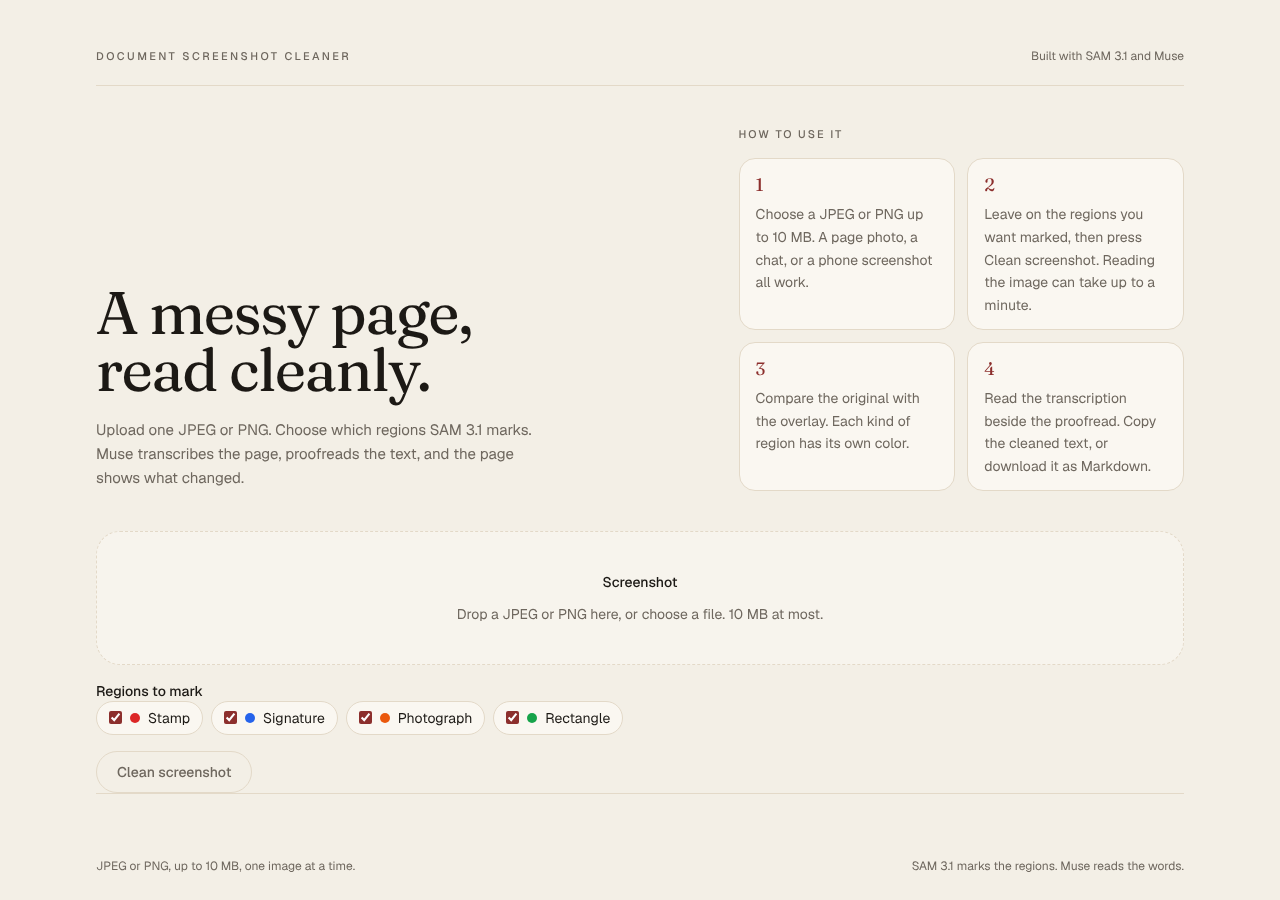
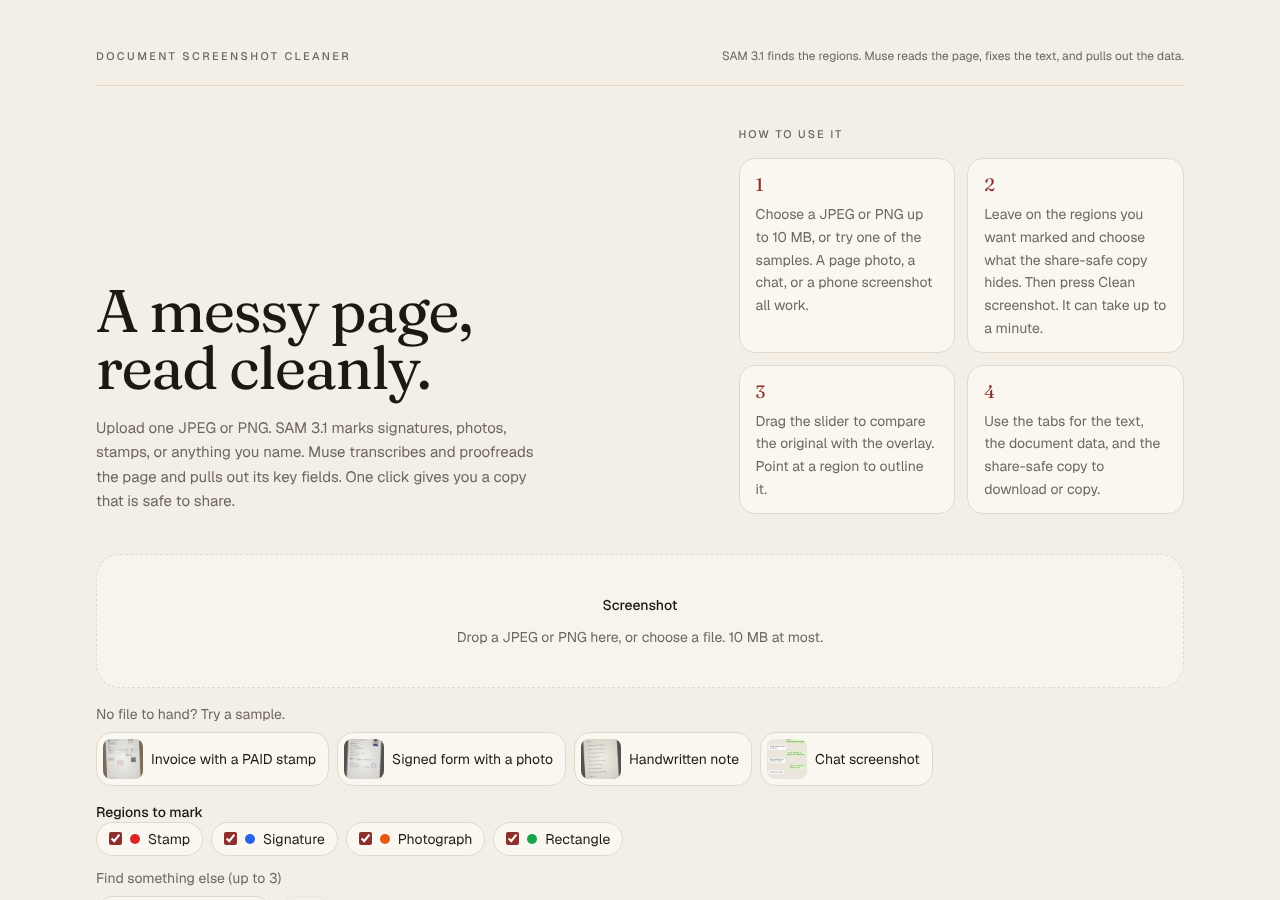
docs: bring the READMEs up to date and add a status tracker
Rewrite the root README for what the app does now: the share-safe
copy, custom regions, document data, region notes, live progress, and
ask the document, with an updated diagram, a "How Meta models are used"
table, the model calls per request, a privacy section, the full
configuration, and the browser tests. Correct the backend README
(the /api/ask endpoint, the stream header, the pipeline steps,
CORS_ORIGINS, the test files) and the frontend README (Cancel now stops
the request on the server, the describe step, the unit and browser
tests). Retake the screenshot of the current page.

Add a status tracker to the feature expansion plan (§13) and link it
from the main plan's phase tracker.

diff --git a/frontend/src/app/cleaner.tsx b/frontend/src/app/cleaner.tsx
@@ -236,7 +236,7 @@ export function Cleaner({ apiBase }: { apiBase: string }) {
   }
 
   function cancelClean() {
-    // The page stops waiting. A model call already under way still finishes on the server.
+    // Aborting closes the progress stream, and the API then cancels the request.
     inFlight.current?.abort();
   }
 

diff --git a/README.md b/README.md
@@ -5,78 +5,91 @@
 
 ![The upload page](docs/screenshot.png)
 
-Upload one screenshot or photo of a page. The app marks the regions you leave on — stamps, signatures, photographs, and rectangles — transcribes the visible text, and proofreads it. You get the original picture, a colored overlay, and the cleaned text beside the transcription, with the edits marked. You can copy that text or download it as Markdown. If a read fails, you can send the same image again.
+People photograph IDs, forms, and bank slips and send them over chat every day, signatures, faces, and account numbers included. Drop the photo in. SAM 3.1 finds the signature, the photo, the stamp, or anything you name. Muse reads the page, fixes it, pulls out the fields, and spots the phone numbers and ID numbers. One click gives you a copy that is safe to share.
 
-This is a small tool for a messy real-world image: a photographed form, a handwritten note, a chat, or a phone screen. It was built for the Meta Global AI Developer Hackathon, Indie track, on the theme Build for Your World.
+It was built for the Meta Global AI Developer Hackathon, Indie track, on the theme Build for Your World.
 
 ## What you can do
 
-1. Choose or drop a JPEG or PNG up to 10 MB.
-2. Leave on the regions you want marked. All four start on.
-3. Wait while the image is read. A request can take up to a minute. Press Cancel to stop waiting. The page gives up on its own after 150 seconds. If it fails and the file is still selected, press Try again. That sends the image once more. The API does not retry a call on its own.
-4. Compare the original with the overlay. Each kind of region has its own color. Below the pictures, each region you asked for shows how many were found and the best confidence score. Download PNG saves the overlay as `<name>.overlay.png`. Changing the region boxes after a result does not send a new request until you clean again.
-5. Read the transcription beside the proofread. Struck-through words were in the transcription. Underlined words are the proofread wording. When nothing changed, the page says so. Copy the cleaned text, or download `<name>.cleaned.md`. Copy and download use the proofread text. They stay off when that text is empty.
+1. Choose or drop a JPEG or PNG up to 10 MB, or click one of the four sample pages.
+2. Choose what SAM marks: stamp, signature, photograph, rectangle, and up to 3 things you name, such as "logo" or "QR code".
+3. Choose what the share-safe copy hides (signature and photograph by default), black box or blur, and whether to mask personal details in the text. Optionally pull out the document's key fields (on by default) and describe each region in a few words (off by default).
+4. Press Clean screenshot. A step list shows each stage as it finishes. A request can take up to a minute. Cancel stops it on the server too. The page gives up after 180 seconds and offers Try again.
+5. Read the result in four tabs:
+   - **Overview**: the original and the SAM overlay under one slider. Point at a region to outline it. Download the overlay PNG.
+   - **Text**: the transcription beside the proofread, with edits marked. Copy it or download Markdown. Ask the document a question and get an answer with the exact words it came from.
+   - **Data**: the document type, a summary, and key fields, each marked when its value is not in the text. Download JSON or CSV.
+   - **Share-safe**: the hidden copy under a before/after slider, with no location or camera data, and the text with personal details replaced by `[PHONE]`, `[NAME]`, and so on.
 
-An image with no matching regions is still a success. The overlay is the picture with no masks, and the text is whatever was read from the page. If the page has no text, the screen says so and the copy and download buttons stay off.
+There is no account system, no saved history, and no multi-page document support. Nothing you upload is stored.
 
 ## What is in this repo
 
 | Path | What it is |
 |---|---|
-| `backend/` | FastAPI service. Accepts the image, calls the models, and draws the overlay. |
-| `frontend/` | Next.js page. Uploads the image and shows the result. |
-| `demo/final-demo.webm` | 67 second walkthrough of the polished page, recorded before region choices, the proofread comparison, Try again, Cancel, region counts, and overlay download. |
-| `demo/happy-path.webm` | 77 second earlier recording of the first working page. |
-| `Document_Screenshot_Cleaner_SAM_Hackathon_Plan.md` | The execution plan and phase tracker. |
+| `backend/` | FastAPI service. Checks the image, calls the models, draws the overlay and the share-safe copy, and streams progress. |
+| `backend/tests/fake_server.py` | The real API with a fixed model gateway, for browser tests. Never calls Meta. |
+| `frontend/` | Next.js page. Uploads the image and shows the result in tabs. |
+| `frontend/public/samples/` | Four sample pages made for this app. Names are invented; phone numbers are from reserved drama ranges. |
+| `frontend/e2e/` | Playwright tests of the built page against the fake API. |
+| `Document_Screenshot_Cleaner_SAM_Hackathon_Plan.md` | The original plan, phase tracker, and the F0 spike results (§5.1). |
+| `Feature_Expansion_Plan.md` | The feature expansion plan and its status tracker (§13). |
+| `demo/final-demo.webm`, `demo/happy-path.webm` | Earlier recordings, made before the feature expansion. |
 | `docs/screenshot.png` | The upload page, shown at the top of this file. |
-| `.github/workflows/ci.yml` | Runs the backend and frontend checks on every push and pull request. |
-
-There is no account system, no saved history, and no multi-page document support.
+| `.github/workflows/ci.yml` | Backend, frontend, and browser checks on every push and pull request. |
 
 ## How one upload is handled
 
 ```mermaid
 flowchart LR
-    B[Browser] -- "POST /api/process" --> A[FastAPI]
-    A --> P[EXIF fix and 2048 px cap]
-    P --> S1[SAM 3.1: stamp]
-    P --> S2[SAM 3.1: signature]
-    P --> S3[SAM 3.1: photograph]
-    P --> S4[SAM 3.1: rectangle]
-    P --> T[Muse: transcribe]
-    T --> R[Muse: proofread]
-    S1 & S2 & S3 & S4 --> O[Overlay PNG]
-    O & R --> J[JSON response]
-    J --> B
+    B[Browser] -- "POST /api/process" --> C[Check upload, EXIF fix, 2048 px cap]
+    C --> S[SAM 3.1: one call per region name]
+    C --> G[Muse: signature boxes]
+    C --> T[Muse: transcribe]
+    S & G --> D[Muse: describe each region]
+    T --> P[Muse: proofread]
+    T --> E[Muse: key fields]
+    T --> N[Muse: personal details]
+    S & G & D --> O[Overlay and share-safe image]
+    P & E & N --> M[Mask the shareable text]
+    O & M --> R[JSON result, or a stream of progress lines]
+    R --> B
 ```
 
-The browser sends the file to `POST /api/process`. The API does not trust the browser to draw masks.
+1. The upload must be a JPEG or PNG up to 10 MB, or the API answers 400 or 413 before calling any model. EXIF orientation is applied and the long edge is capped at 2048 px; every model and both images use that working image, so boxes line up with the picture.
+2. SAM 3.1 is called once per region name, in parallel. When signature is marked, Muse vision also boxes signatures, because SAM found none in the F0 spike. Muse transcribes the whole page at the same time.
+3. With the transcription in hand, Muse proofreads it and, when asked, pulls out key fields and finds personal details, all in parallel. Region descriptions start as soon as SAM is done.
+4. The API draws the overlay, builds the share-safe image (hidden areas follow each SAM mask; the file has no metadata), and masks the shareable text.
+5. Every prompt that carries text from the image fences it and tells the model never to follow instructions inside it. Model output that has to be in the text (sensitive spans, quotes, field values) is checked against the text.
+6. Each model call has a 60 second timeout and is not retried. A failed core step (segmentation, transcription, proofread) is HTTP 502. A failed optional step (signature boxes, fields, personal details, descriptions, text boxes) leaves its part empty and adds a line to `warnings`; the request still succeeds.
 
-1. It accepts only JPEG or PNG, up to 10 MB. Anything else is HTTP 400. A larger file is HTTP 413.
-2. It applies EXIF orientation, then shrinks the long edge to 2048 px when needed. Segmentation, transcription, and the overlay all use that same working image, so the boxes line up with the picture on the page.
-3. It asks SAM 3.1, in parallel, for the regions in the `concepts` form field. The known names are `stamp`, `signature`, `photograph`, and `rectangle`, always stored in that order. Omit the field and the server uses `SAM_CONCEPTS`, which defaults to all four. Send the field empty and segmentation is skipped, while transcription still runs. An unknown name is HTTP 400. Prompts for text, a document, or a handwritten note are not sent. Those returned no regions in the early spike. Text comes from a full-image transcription, not from the regions.
-4. It decodes each SAM stream with `meta-sam-parser` and paints the mask at the box. A box whose mask cannot be decoded is still outlined. Rectangle fills are lighter than stamps so the words underneath stay readable. Returned boxes are clipped to the working image, and a box entirely off it is dropped.
-5. It transcribes the whole image with Muse Spark (`muse-spark-1.3`), then proofreads that text with the same model. The transcription is wrapped in `<transcript>` tags and marked as data, so text in the picture that reads like an instruction does not steer the proofread. An empty transcription is not proofread.
-6. Each model call has a 60 second timeout and is not retried by the API. A timeout or an upstream failure is HTTP 502 with a short `detail` string, and the page shows that string. Try again starts a new request with the same file and the regions currently checked.
+`backend/README.md` has every form field, the full response, the stream format, and `POST /api/ask`.
 
-The response looks like this:
+## How Meta models are used
 
-```json
-{
-  "boxes": [{ "x": 0, "y": 0, "w": 100, "h": 50, "label": "stamp", "score": 0.97 }],
-  "overlay_png_base64": "<png with the masks drawn on the working image>",
-  "original_text": "<transcription>",
-  "cleaned_text": "<proofread text>",
-  "models": { "segmentation": "sam-3.1", "transcription": "muse-spark-1.3", "proofread": "muse-spark-1.3" }
-}
-```
+| Model | Used for |
+|---|---|
+| SAM 3.1 (`sam-3.1`) | Segmenting stamps, photos, rectangles, and the regions you name. Its masks shape the overlay and the share-safe hiding. |
+| Muse Spark (`muse-spark-1.3`) | Transcribing the page, proofreading it, boxing signatures, extracting key fields, finding personal details, describing regions, and answering questions. |
+| Muse Wonder (`muse-wonder-1.0`) | Locating sensitive words inside the picture, only when `REDACT_IMAGE_TEXT=true`. |
+| `meta-sam-parser` | Decoding SAM's streamed boxes and masks. |
 
-`score` is the model's confidence when it sends one, otherwise `null`. `models` names the models this server is configured to use, and the page prints them under the result. `GET /api/health` returns `{ "status": "ok" }`.
+### Model calls per request
+
+With the page's default choices (four regions, fields on, personal details on, descriptions off), one image costs 9 calls: 4 SAM, 1 signature lookup, 1 transcription, 1 proofread, 1 extraction, and 1 personal-details check. The most one request can make is 22: 7 SAM (4 presets and 3 custom), 1 signature lookup, 1 transcription, 1 proofread, 2 extraction (with one repair), 1 personal-details check, 8 descriptions, and 1 text-box lookup. Each question in Ask the document is 1 more call.
+
+## Privacy
+
+- Nothing is kept after a request: the upload, its text, and the results are not saved. Logs hold only region names, counts, the length of the text, and error types, never the text or the image.
+- The share-safe image is re-encoded from raw pixels, so EXIF, GPS, and other metadata from the upload never reach it.
+- Black box is the safer choice; blur can leave shapes readable.
+- By default, text inside the share-safe image is not hidden, and the page says so; share the masked text instead. `REDACT_IMAGE_TEXT=true` also blacks out sensitive words in the image, and stays off until it is checked on real photos.
+- Region descriptions never name or guess who a person is.
 
 ## Requirements
 
 - Python 3.14 and [uv](https://docs.astral.sh/uv/)
-- Node.js and pnpm 11
+- Node.js 24 and pnpm 11
 - A Meta Model API key
 
 The key belongs in `backend/.env` only. That file is gitignored.
@@ -107,7 +120,7 @@ Check the API on its own:
 
 ```bash
 curl -s http://127.0.0.1:8000/api/health
-curl -s -F "image=@note.png;type=image/png" http://127.0.0.1:8000/api/process
+curl -s -F "image=@note.png;type=image/png" -F "redact=signature" -F "extract=true" http://127.0.0.1:8000/api/process
 ```
 
 ## Configuration
@@ -118,8 +131,8 @@ Optional values in `backend/.env`:
 |---|---|
 | `META_BASE_URL` | `https://api.meta.ai/v1` |
 | `SAM_MODEL` | `sam-3.1` |
-| `MUSE_VISION_MODEL` | `muse-spark-1.3` |
-| `MUSE_TEXT_MODEL` | `muse-spark-1.3` |
+| `MUSE_VISION_MODEL` | `muse-spark-1.3` (transcription and region descriptions) |
+| `MUSE_TEXT_MODEL` | `muse-spark-1.3` (proofread, fields, personal details, and answers). Can be `muse-wonder-1.0`. |
 | `MUSE_SIGNATURE_MODEL` | `muse-spark-1.3` (boxes signatures, which SAM does not find) |
 | `REDACT_IMAGE_TEXT` | `false`. `true` also blacks out sensitive text inside the share-safe image. |
 | `MUSE_TEXT_BOX_MODEL` | `muse-wonder-1.0` (finds that text in the picture) |
@@ -128,30 +141,29 @@ Optional values in `backend/.env`:
 | `UPSTREAM_TIMEOUT_SECONDS` | `60` |
 | `RATE_LIMIT_PER_MINUTE` | `0` (off). Requests per minute per client IP for `/api/process` and `/api/ask` together. Over the limit is HTTP 429. |
 
-`MUSE_TEXT_MODEL` can be set to `muse-wonder-1.0` for the proofread step. The vision step stays on Muse Spark.
-
 ## Checks
 
 ```bash
 cd backend && uv run pytest && uv run ruff check . && uv run ruff format --check .
 cd frontend && pnpm test && pnpm lint && pnpm typecheck && pnpm build
+cd frontend && pnpm test:e2e   # browser tests against the fake API
 ```
 
-GitHub Actions runs the same commands on every push and pull request.
+GitHub Actions runs all three on every push and pull request.
 
-Backend tests use a stand-in model client, so they do not spend API credit. The frontend tests cover file checks, error messages, and the Markdown filename. A browser pass of the running app is separate and needs the key.
+None of these call Meta or need a key. The backend tests use a stand-in model gateway. The frontend unit tests cover the API client, the stream reader, exports, and validation. The browser tests run the built page against `backend/tests/fake_server.py` on desktop and on a 375 px dark-mode phone; see `frontend/README.md`. A pass against the real API needs the key and is a separate step.
 
 ## Hosting
 
 Nothing in this repo is deployed. Both processes are meant to run on your machine.
 
-A public test needs the API and the page on hosts that can hold a request for about a minute. Put `META_API_KEY` in the API host's environment, not in git. Set `CORS_ORIGINS` to the page's origin, and set `NEXT_PUBLIC_API_BASE_URL` to the API's public URL. The API has no login. Anyone who can reach a public copy can spend the Meta key. Set `RATE_LIMIT_PER_MINUTE` (for example `5`) on a public copy. The limit is kept in memory for one process. Behind a proxy, start uvicorn with `--proxy-headers --forwarded-allow-ips=<proxy IP>` so the limit sees each visitor's address instead of the proxy's. Take the URL down when judging is over.
+A public test needs the API and the page on hosts that can hold a request for up to three minutes and pass a streamed response through without buffering it. Put `META_API_KEY` in the API host's environment, not in git. Set `CORS_ORIGINS` to the page's origin, and set `NEXT_PUBLIC_API_BASE_URL` to the API's public URL at build time. The API has no login. Anyone who can reach a public copy can spend the Meta key. Set `RATE_LIMIT_PER_MINUTE` (for example `5`) on a public copy, and a spend alert on the key. The limit is kept in memory for one process. Behind a proxy, start uvicorn with `--proxy-headers --forwarded-allow-ips=<proxy IP>` so the limit sees each visitor's address instead of the proxy's. Take the URL down when judging is over.
 
 ## More detail
 
-- `backend/README.md` — request rules and the pipeline
-- `frontend/README.md` — the upload page
-- `Document_Screenshot_Cleaner_SAM_Hackathon_Plan.md` — scope and phase status
+- `backend/README.md`: form fields, the response, the stream, `/api/ask`, and every pipeline rule
+- `frontend/README.md`: the page, its tabs, and the browser tests
+- `Feature_Expansion_Plan.md` §13: what is done and what is left
 
 ## License
 

diff --git a/frontend/README.md b/frontend/README.md
@@ -22,9 +22,9 @@ pnpm dev
 
 Open http://localhost:3000. The page calls `http://127.0.0.1:8000` unless `NEXT_PUBLIC_API_BASE_URL` is set. Copy `.env.example` to `.env.local` to change it.
 
-JPEG and PNG only, up to 10 MB. A backend 413, 429, or 502 message is shown on the page. A request can take up to a minute. Cancel stops waiting and returns the page to its idle state; a model call already under way still finishes on the server. The page gives up after 180 seconds and offers Try again.
+JPEG and PNG only, up to 10 MB. A backend 413, 429, or 502 message is shown on the page. A request can take up to a minute. Cancel returns the page to its idle state and closes the progress stream, which makes the API stop the request. The page gives up after 180 seconds and offers Try again.
 
-The page lists the steps. Four region checkboxes start checked. The page sends that selection as the `concepts` field. Changing the boxes after a result does not send another request; clean again to apply it. Unchecking every region still transcribes the page and returns an overlay with no masks.
+The page lists four steps. Four region checkboxes start checked. The page sends that selection as the `concepts` field. Changing the boxes after a result does not send another request; clean again to apply it. Unchecking every region still transcribes the page and returns an overlay with no masks.
 
 Below the four region checkboxes, Find something else adds up to 3 more things for SAM to look for. Type a name and press Enter or Add, or pick a suggestion (Logo, QR code, Barcode, Face, Table, Checkbox, Seal; the ones SAM found in the F0 spike). The page checks the name the same way the API does: 1 to 3 plain words, no text prompts such as "receipt", and no repeats. Typing a preset name such as "stamp" turns that preset on. Each added region shows its color and a remove button, is sent in the `custom` field, and can be hidden in the share-safe copy. The legend under the result uses the colors the API returns, so it matches the overlay.
 
@@ -50,7 +50,7 @@ Under the text comparison in the Text tab, Ask the document sends a question to 
 
 ## Progress
 
-The page asks the API to stream its progress. While a request runs, a list under the progress bar shows each step the API planned (preparing the image, finding regions with SAM, reading the text with Muse, proofreading, and, when chosen, pulling out fields and finding personal details, then building the overlay and share-safe copy). Each step is marked waiting, in progress, or done, with a short detail such as how many of each region were found. Cancel closes the stream, and the API then stops the request instead of finishing it. An API that does not stream still works: the page reads its plain JSON answer and shows no step list.
+The page asks the API to stream its progress. While a request runs, a list under the progress bar shows each step the API planned (preparing the image, finding regions with SAM, reading the text with Muse, proofreading, and, when chosen, describing each region, pulling out fields, and finding personal details, then building the overlay and share-safe copy). Each step is marked waiting, in progress, or done, with a short detail such as how many of each region were found. Cancel closes the stream, and the API then stops the request instead of finishing it. An API that does not stream still works: the page reads its plain JSON answer and shows no step list.
 
 ## Layout
 
@@ -63,10 +63,10 @@ The result code is in `src/app/results/`: one file per tab, plus the tabs, the s
 ## Tests
 
 ```bash
-pnpm test
+pnpm test        # unit tests in src/lib/*.test.ts, with Node's test runner
 pnpm lint
 pnpm typecheck   # generates Next route types, then runs tsc
 pnpm test:e2e     # browser tests, see below
 ```
 
-`pnpm test:e2e` builds the page into `.next-e2e` against a fake API and runs Playwright on desktop and on a 375 px dark-mode phone. The fake API is `backend/tests/fake_server.py`: the real FastAPI app with a fixed model gateway, so the tests never call Meta and need no key. It starts its own servers on ports 8100 and 3100 and never reuses one that is already running. The fake API pauses one second in the proofread so the tests can see a step in progress. The tests walk a sample through every tab, check that each download produces a file, check the step list and cancelling a streamed run, and cover the tab keys, the region highlight, empty tabs, Cancel, and a blocked custom region. Install a browser once with `pnpm exec playwright install chromium`, or set `CHROMIUM_PATH` to one already installed. CI runs the same tests.
+`pnpm test:e2e` builds the page into `.next-e2e` against a fake API and runs Playwright on desktop and on a 375 px dark-mode phone. The fake API is `backend/tests/fake_server.py`: the real FastAPI app with a fixed model gateway, so the tests never call Meta and need no key. It starts its own servers on ports 8100 and 3100 and never reuses one that is already running. The fake API pauses one second in the proofread so the tests can see a step in progress. The tests walk a sample through every tab, check that each download produces a file, check the step list and cancelling a streamed run, ask the document a question, and cover region notes, the tab keys, the region highlight, empty tabs, Cancel, and a blocked custom region. Install a browser once with `pnpm exec playwright install chromium`, or set `CHROMIUM_PATH` to one already installed. CI runs the same tests.

diff --git a/backend/README.md b/backend/README.md
@@ -1,7 +1,9 @@
 # Document screenshot cleaner API
 
-The project overview is in the root [README](../README.md). This service accepts one JPEG or PNG and returns SAM 3.1 boxes, a
-pre-rendered overlay, the Muse transcription, and a proofread copy of that text.
+The project overview is in the root [README](../README.md). This service accepts one JPEG or PNG
+and returns SAM 3.1 boxes, a pre-rendered overlay, the Muse transcription and proofread, and, on
+request, a share-safe copy, masked text, key fields, and region descriptions. It can stream its
+progress, and it answers questions about a page's text.
 
 ## Run
 
@@ -16,6 +18,7 @@ uv run uvicorn dsc_backend.main:app --reload --port 8000
 The process refuses to start when `META_API_KEY` is missing.
 
 - `GET http://127.0.0.1:8000/api/health` → `{"status":"ok"}`
+- `POST http://127.0.0.1:8000/api/ask` with a JSON question; see [Ask the document](#ask-the-document)
 - `POST http://127.0.0.1:8000/api/process` with multipart field `image`
 - Optional multipart field `concepts`, a comma-separated list. Omit it to use `SAM_CONCEPTS`.
 - Optional multipart field `custom`: up to 3 more things for SAM to find, comma-separated,
@@ -29,6 +32,8 @@ The process refuses to start when `META_API_KEY` is missing.
   fields. Default `false`.
 - Optional multipart field `describe`: `true` to add a short Muse description to each region.
   Default `false`.
+- Optional header `Accept: application/x-ndjson` to stream progress; see
+  [Live progress](#live-progress).
 
 ```bash
 curl -s -F "image=@note.png;type=image/png" http://127.0.0.1:8000/api/process
@@ -113,14 +118,19 @@ working image with no masks. That is a successful response.
 6. Draw a light colored fill and a thicker outline on larger images. Rectangle
    fills stay lighter than stamps so the page text remains readable. The upload
    page legend uses the same colors.
-7. Transcribe the whole image with `muse-spark-1.3`, then proofread that text
-   with the same model. `MUSE_TEXT_MODEL` can be set to `muse-wonder-1.0`.
-   The proofread prompt fences the transcription in `<transcript>` tags and
-   tells the model never to follow instructions inside it. A literal closing
-   tag in the text is defused, and an echoed fence is stripped from the answer.
-8. When `redact` names regions, build the share-safe copy. It is described
-   below.
-9. Each Meta call has a 60 second timeout. This service does not retry a model
+7. Transcribe the whole image with `MUSE_VISION_MODEL` (`muse-spark-1.3`), in
+   parallel with segmentation, then proofread that text with `MUSE_TEXT_MODEL`
+   (`muse-spark-1.3`; it can be `muse-wonder-1.0`). The proofread prompt fences
+   the transcription in `<transcript>` tags and tells the model never to follow
+   instructions inside it. A literal closing tag in the text is defused, and an
+   echoed fence is stripped from the answer.
+8. While the proofread runs, and only when asked, Muse also pulls out key
+   fields (`extract`) and finds personal details (`redact_text`). Region
+   descriptions (`describe`) start as soon as segmentation is done. Each has
+   its own section below.
+9. Draw the overlay, then build the share-safe copy when `redact` names
+   regions or image text is hidden, and mask the shareable text.
+10. Each Meta call has a 60 second timeout. This service does not retry a model
    call. Timeout or upstream failure is HTTP 502 with `{"detail": "..."}`.
    The upload page can send the same image again as a new request.
 
@@ -288,7 +298,10 @@ images, which is why it stays off until it is checked on real photos. This
 call adds about 15 seconds, up to about 45. A line that is not found, or a
 failed call, is a warning.
 
-CORS allows `http://localhost:3000` and `http://127.0.0.1:3000` only.
+## Limits
+
+CORS allows `CORS_ORIGINS`, which defaults to `http://localhost:3000` and
+`http://127.0.0.1:3000`.
 
 `RATE_LIMIT_PER_MINUTE` caps `/api/process` and `/api/ask` together per client IP over a sliding
 minute. It is off (`0`) by default. Over the limit is HTTP 429 with
@@ -303,6 +316,16 @@ uv run ruff check .
 uv run ruff format --check .
 ```
 
-The test suite mocks the model gateway. It does not call Meta.
+The test suite mocks the model gateway. It does not call Meta. Each module has
+its own test file (`test_redaction.py`, `test_privacy.py`, `test_extraction.py`,
+`test_describe.py`, `test_ask.py`, `test_stream.py`, and so on), and
+`test_process.py` covers the `/api/process` contract.
+
+`tests/fake_server.py` runs the real app with a fixed gateway for the browser
+tests in `frontend/e2e/`. It never calls Meta:
+
+```bash
+uv run python tests/fake_server.py 8100   # FAKE_DELAY_SECONDS slows the proofread
+```
 
 The upload page lives in `frontend/`. See `frontend/README.md`.

diff --git a/Feature_Expansion_Plan.md b/Feature_Expansion_Plan.md
@@ -377,3 +377,38 @@ All request fields are optional with today's defaults; all response fields are a
 - [ ] New demo video (60–90 s) in `demo/` and linked
 - [ ] README: pitch, screenshot/GIF of the share-safe slider, "How Meta models are used" table, architecture diagram, privacy statement, call-count/cost note
 - [ ] Repo public, About section set, submitted on the portal by 3 Nov
+
+---
+
+## 13. Status tracker
+
+Update this table in every commit that changes a row. `Status` is one of
+`Not Started`, `In Progress`, `Done`, or `Blocked` (with the blocker named).
+`Tests`, `Docs`, and `Commit` turn `Yes` when the work delivers them. Every
+row below was built and checked without live Meta calls unless its notes say
+otherwise; checks on real photos are tracked as their own rows.
+
+| ID | Work item | Ref | Status | Tests | Docs | Commit | Notes |
+|----|-----------|-----|--------|-------|------|--------|-------|
+| F0 | Live API spike | §3 | Done | No | Yes | Yes | `8ceaef4`. About 250 live calls on 8 generated documents; results and decisions in the main plan §5.1. Scripts stay out of the repo, as planned. |
+| F1a | Share-safe image: mask-shaped hiding, no metadata | §4 F1 | Done | Yes | Yes | Yes | `f57144b`. SAM found no signatures in F0, so Muse vision boxes them. `photograph` is sent to SAM as `photo`. |
+| F1b | Sensitive text: patterns, Muse spans, masking | §4 F1 | Done | Yes | Yes | Yes | `f6162f9`. Verbatim check drops invented spans. Surnames and sort codes added after the live run. |
+| F1c | Black out sensitive text in the image | §4 F1 | Done | Yes | Yes | Yes | `52d86a8`. Behind `REDACT_IMAGE_TEXT`, off until checked on real photos. |
+| F1 UI | Share-safe panel, slider, downloads | §4 F1 | Done | Yes | Yes | Yes | `5f8df1e`. |
+| F2 | Custom region prompts | §4 F2 | Done | Yes | Yes | Yes | `c6a3633`. Up to 3 names, blocklist from F0, palette in the response. |
+| F3 | Structured extraction, JSON and CSV export | §4 F3 | Done | Yes | Yes | Yes | `ad12bc4`. Strict schema, one repair prompt, grounding check, CSV formula defusing. |
+| F6 | Demo UX: tabs, slider, highlight, samples, E2E | §4 F6, §6 | Done | Yes | Yes | Yes | `2f69deb`. Playwright against a fake gateway, desktop and 375 px dark; CI job added, not yet run on GitHub. |
+| F4 | Live progress (NDJSON stream) | §4 F4 | Done | Yes | Yes | Yes | `f1749f7`. Disconnect cancels the work. The 5 s fallback to a plain request was left out on purpose: it would send the request twice. |
+| F5 | Region descriptions | §4 F5 | Done | Yes | Yes | Yes | `a23ae58`. Off by default on the page to save calls; the plan had it on. |
+| F7 | Ask the document | §4 F7 | Done | Yes | Yes | Yes | `1ba571f`. `POST /api/ask`, verbatim quotes only, shared rate limit. |
+| D1 | READMEs and docs match the code, status tracker | §12 | Done | No | Yes | Yes | Root README rewritten; backend and frontend READMEs corrected; screenshot retaken. |
+| F8 | Read aloud | §4 F8 | Not Started | No | No | No | |
+| H1 | Overall request budget (`REQUEST_BUDGET_SECONDS`) | §5.3 | Not Started | No | No | No | |
+| H2 | Server-side feature flags | §5.3 | Not Started | No | No | No | `FEATURE_EXTRACT`, `FEATURE_DESCRIBE`, `FEATURE_PRIVACY`; image text keeps `REDACT_IMAGE_TEXT`. |
+| H3 | Live smoke script (`backend/scripts/smoke.py`) | §6 | Not Started | No | No | No | Written without calls; running it spends calls. |
+| H4 | Prompts in one `prompts.py` | §5.6 | Not Started | No | No | No | Optional tidy-up. Prompts live in `meta.py` today. |
+| L1 | Acceptance checks on real photos (F1, F2, F3) | §4 | Blocked | No | No | No | Needs 2 to 3 real phone photos and live calls. Also settles signature boxes and F1c. |
+| L2 | Evaluation sheet | §6 | Not Started | No | No | No | Needs live calls; numbers go in the README. |
+| R1 | Deploy, rate limit, spend alert, streaming through the host | §8 | Not Started | No | No | No | Needs host accounts. |
+| R2 | Demo video and final README | §9, §12 | Not Started | No | No | No | |
+| R3 | Repo public, submit on the portal | §12 | Not Started | No | No | No | Target 3 Nov. |

diff --git a/Document_Screenshot_Cleaner_SAM_Hackathon_Plan.md b/Document_Screenshot_Cleaner_SAM_Hackathon_Plan.md
@@ -338,6 +338,7 @@ Update `Status` as work progresses. Allowed values: `Not Started` →
 | 3 | Polish, README, final video + submission | §4 Phase 3, §6 | Done | Yes | Yes | Yes | Lighter rectangle masks, usage steps, copy, and Markdown download. Final demo is `demo/final-demo.webm` (67s). Fact-checking and background removal were not added. Portal submission is still open. |
 | 3b | Proofread diff, region toggles, retry | Added after §4 Phase 3 | Done | Yes | Yes | Yes | Page shows transcription against proofread text. `concepts` selects stamp, signature, photograph, rectangle. Try again sends a new request. |
 | 3c | Hardening and presentation | Added after 3b | Done | Yes | Yes | Yes | Faster mask drawing, boxes clipped to the image, fenced proofread prompt, optional per-IP rate limit, model names in the response. Page: Cancel, 150 s timeout, region counts with best score, overlay PNG download. CI workflow, MIT license, README diagram and screenshot. |
+| 4 | Feature expansion F0–F8 | `Feature_Expansion_Plan.md` §13 | In Progress | Yes | Yes | Yes | F0–F7 done (share-safe copy, custom regions, extraction, demo UX and browser tests, live progress, region descriptions, ask the document). F8 and the §5.3 hardening are next. Real-photo checks wait on photos. Per-item status lives in the expansion plan's tracker. |
 
 ---
 
